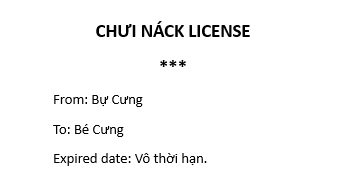
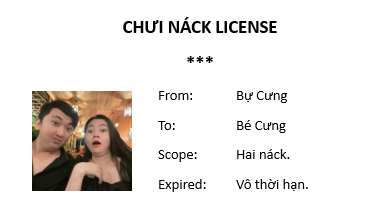
update new-year

diff --git a/BigLove/new-year/index.html b/BigLove/new-year/index.html
@@ -177,7 +177,7 @@
                 <p>Bự vẫn luôn cố gắng phát triển bản thân để trở thành phiên bản Bự Cưng xịn hơn của Bé.</p>
                 <p style="margin-top: .5rem;">Bé cùng <a href="#phat-trien">cố gắng</a> với Bự nha!</p>
                 <p style="text-align: right; margin-right: 1rem;">Ký tên</p>
-                <p style="text-align: right; margin-right: 1.75rem;">Bự</p>
+                <p style="text-align: right; margin-right: .65rem;">Bự Cưng</p>
             </div>
             <img src="images/dudu-tha-tim.gif" title="Dudu tha tim">
             <audio style="width: 50vw; height: 20px;" loop autoplay controls src="music/Ngay xuan long phung sum vay.mp3">Your browser does not support the audio element.</audio>
@@ -218,8 +218,10 @@
                 id="dudu" src="images/dudu-tang-hoa-2.gif" title="Dudu">
             <img class="move" id="lid" src="images/box-lid.png" title="Box lid">
             <img style="cursor: pointer;" id="box" src="images/box.png" title="Box">
-            <img id="chui-nack" style="margin-top: 5rem; position: absolute; bottom: 10%; display: none;"
+            <img id="chui-nack" style="position: absolute; bottom: 50vw; display: none;"
                 src="images/chui-nack-license.png" title="Chui nack license">
+            <img id="chui-ke" style="position: absolute; bottom: 10vw; display: none;"
+            src="images/chui-ke-license.png" title="Chui ke license">
         </div>
         <div id="chuc-mung">
             <div class="speech-bubble">
@@ -248,6 +250,7 @@
         let lid = document.getElementById("lid");
         let box = document.getElementById("box");
         let chuiNack = document.getElementById("chui-nack");
+        let chuiKe = document.getElementById("chui-ke");
         let clicked = false;
         box.addEventListener("click", function () {
             if (clicked) {
@@ -257,6 +260,7 @@
                 loiChuc.style.display = "none";
                 lid.classList.remove("rotated");
                 chuiNack.style.display = "none";
+                chuiKe.style.display = "none";
                 clicked = false;
             } else {
                 clicked = true;
@@ -267,6 +271,7 @@
                     loiChuc.style.display = "block";
                     lid.classList.add("rotated");
                     chuiNack.style.display = "block";
+                    chuiKe.style.display = "block";
                 }, 300);
             }
         });
